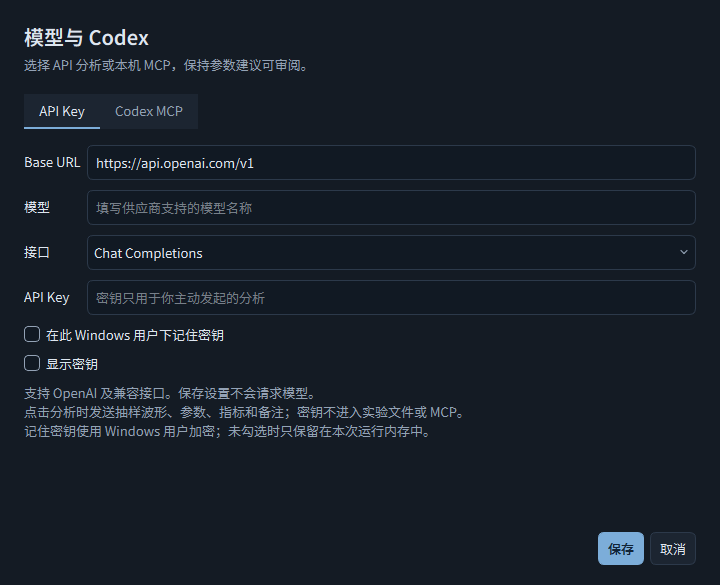
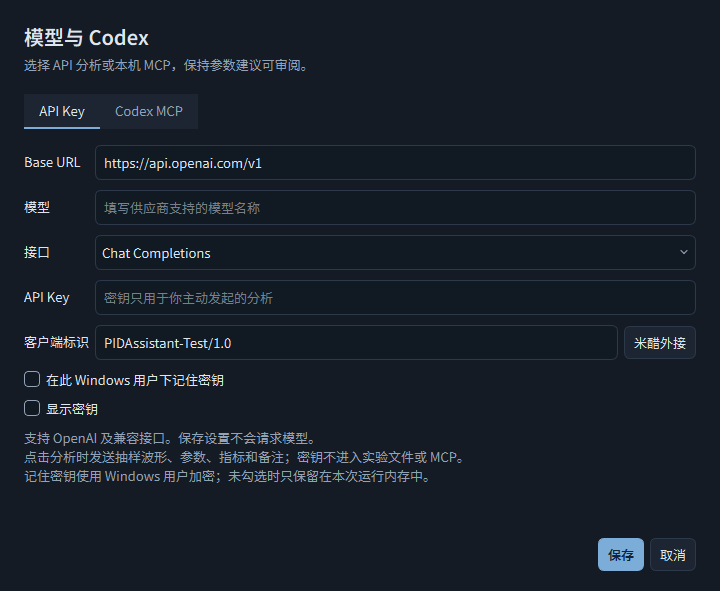
fix: v0.11.1 修复中转站客户端标识缺失导致的 API 403
实际改动：
- 模型设置新增可选 User-Agent 与米醋 Codex 外接预设，保存并加载客户端标识。
- 普通模型分析与 AI 自动调参后台请求共用已保存标识；旧配置兼容，留空使用助手自身标识。
- 网络请求前拒绝请求头换行、控制字符、非 ASCII 和超长输入；不自动重试，不显示服务商原始错误或密钥。
- 更新使用说明、版本记录与原生 API / MCP 设置截图；密钥仅保存在用户本机加密存储，不进入仓库或发布包。

验证结果：
- 同一本机米醋 Key、地址和模型：缺少标识时 HTTP 403；补齐供应商文档要求的标识后模型列表读取成功且包含所选模型，实际 Responses 回答返回 OK。
- 113 项功能测试、243 项打包 EXE 实际 Qt 检查、5 项官方 MCP 客户端互通通过；GUI / MCP 源码指纹、发行 ZIP 资源与 CRC 核对。

未验证项：
- 未验证真实小车控制效果、具体固件或 IDE 编译烧录；未用远程 AI 连续自动调参证明物理收敛或预算与供应商账单一致。

diff --git a/workspace_ui.py b/workspace_ui.py
@@ -13,7 +13,7 @@ import pyqtgraph as pg
 
 from core import CHANNELS, SCENARIOS, VERSION
 from ui_fonts import UI_FAMILY, NUMBER_FAMILY, configure_typography, number_font
-from integration import (SecretStore, analysis_identity, proposal_current, api_context, api_endpoint, atomic_json, codex_config_text,
+from integration import (SecretStore, analysis_identity, proposal_current, api_context, api_endpoint, atomic_json, codex_config_text, client_user_agent, MICU_CODEX_USER_AGENT,
                          data_directory, install_codex_config, request_analysis)
 from ui_components import DockHeader, ElidedLabel, section_header
 
@@ -129,7 +129,7 @@ class ApiWorker(QtCore.QThread):
     def run(self):
         try:
             text, usage = request_analysis(self.settings["base_url"], self.key, self.settings["model"],
-                                           self.context, self.question, self.settings["api_mode"])
+                                           self.context, self.question, self.settings["api_mode"], user_agent=self.settings.get("user_agent", ""))
             self.result.emit(text, usage)
         except Exception as error:
             self.failed.emit(str(error) if isinstance(error, ValueError) else "请求失败；请检查模型配置")
@@ -160,6 +160,14 @@ class ModelSettingsDialog(QtWidgets.QDialog):
         self.api_mode = QtWidgets.QComboBox()
         self.api_mode.addItems(["Chat Completions", "Responses"])
         self.api_mode.setCurrentText(settings.get("api_mode", "Chat Completions"))
+        self.user_agent = QtWidgets.QLineEdit(settings.get("user_agent", ""))
+        self.user_agent.setPlaceholderText("可留空；中转站有要求时填写 User-Agent")
+        self.user_agent.setMaxLength(512)
+        client_row = QtWidgets.QWidget()
+        client_layout = QtWidgets.QHBoxLayout(client_row)
+        client_layout.setContentsMargins(0, 0, 0, 0)
+        client_layout.addWidget(self.user_agent, 1)
+        client_layout.addWidget(push("米醋外接", lambda: self.user_agent.setText(MICU_CODEX_USER_AGENT)))
         self.key = QtWidgets.QLineEdit(window.api_key)
         self.key.setEchoMode(QtWidgets.QLineEdit.EchoMode.Password)
         self.key.setPlaceholderText("密钥只用于你主动发起的分析")
@@ -167,6 +175,7 @@ class ModelSettingsDialog(QtWidgets.QDialog):
         self.remember.setChecked(settings.get("remember_key", False))
         for name, item in [("Base URL", self.base_url), ("模型", self.model), ("接口", self.api_mode), ("API Key", self.key)]:
             form.addRow(name, item)
+        form.addRow("客户端标识", client_row)
         form.addRow(self.remember)
         self.show_key = QtWidgets.QCheckBox("显示密钥")
         self.show_key.toggled.connect(lambda enabled: self.key.setEchoMode(QtWidgets.QLineEdit.EchoMode.Normal if enabled else QtWidgets.QLineEdit.EchoMode.Password))
@@ -226,6 +235,7 @@ class ModelSettingsDialog(QtWidgets.QDialog):
     def save(self):
         try:
             api_endpoint(self.base_url.text(), self.api_mode.currentText())
+            client_user_agent(self.user_agent.text())
             remember = self.remember.isChecked()
             key = self.key.text().strip()
             store = SecretStore(self.window.data_dir)
@@ -234,7 +244,7 @@ class ModelSettingsDialog(QtWidgets.QDialog):
             elif not remember or not key:
                 store.forget()
             settings = {"base_url": self.base_url.text().strip(), "model": self.model.text().strip(),
-                        "api_mode": self.api_mode.currentText(), "remember_key": remember,
+                        "api_mode": self.api_mode.currentText(), "remember_key": remember, "user_agent": self.user_agent.text().strip(),
                         "mcp_enabled": self.sharing.isChecked()}
             atomic_json(self.window.data_dir / "model-settings.json", settings)
             self.window.model_settings = settings

diff --git a/test_integration.py b/test_integration.py
@@ -7,12 +7,13 @@ import threading
 import time
 import unittest
 import uuid
+from unittest.mock import patch
 from http.server import BaseHTTPRequestHandler, HTTPServer
 from pathlib import Path
 
 from core import Experiment, Parameters, Simulator
 from integration import (LocalBridge, SecretStore, api_context, api_endpoint, install_codex_config,
-                         live_snapshot, request_analysis, write_proposal)
+                         live_snapshot, request_analysis, write_proposal, client_user_agent, MICU_CODEX_USER_AGENT)
 from mcp_server import call_tool, serve
 
 
@@ -133,7 +134,7 @@ class IntegrationTests(unittest.TestCase):
                 pass
             def do_POST(self):
                 body = json.loads(self.rfile.read(int(self.headers["Content-Length"])))
-                recorded.append((self.path, self.headers.get("Authorization"), body))
+                recorded.append((self.path, self.headers.get("Authorization"), body, self.headers.get("User-Agent")))
                 if body["model"] == "denied":
                     self.send_response(401)
                     self.end_headers()
@@ -154,8 +155,10 @@ class IntegrationTests(unittest.TestCase):
             self.assertEqual(usage["total_tokens"], 42)
             self.assertEqual(recorded[-1][1], "Bearer dummy-api-secret")
             self.assertNotIn("dummy-api-secret", json.dumps(recorded[-1][2]))
-            text, _ = request_analysis(url, "dummy-api-secret", "test", {}, "检查", "Responses")
+            self.assertTrue(recorded[-1][3].startswith("PIDAssistant/"))
+            text, _ = request_analysis(url, "dummy-api-secret", "test", {}, "检查", "Responses", user_agent=MICU_CODEX_USER_AGENT)
             self.assertEqual(text, "响应接口分析")
+            self.assertEqual(recorded[-1][3], MICU_CODEX_USER_AGENT)
             with self.assertRaises(ValueError) as error:
                 request_analysis(url, "dummy-api-secret", "denied", {}, "检查")
             self.assertNotIn("dummy-api-secret", str(error.exception))
@@ -163,6 +166,14 @@ class IntegrationTests(unittest.TestCase):
             server.shutdown()
             server.server_close()
             thread.join(timeout=2)
+
+    def test_invalid_client_identifier_is_rejected_before_network(self):
+        for value in [None, {}, "bad\r\nAuthorization: other", "bad\nvalue", "bad\x00", "中文", "x" * 513]:
+            with self.subTest(value=value), patch("integration.build_opener") as opener:
+                with self.assertRaises(ValueError):
+                    request_analysis("https://example.invalid/v1", "dummy-key", "test", {}, "检查", user_agent=value)
+                opener.assert_not_called()
+        self.assertTrue(client_user_agent(" ").startswith("PIDAssistant/"))
 
 
 if __name__ == "__main__":

diff --git a/smoke.py b/smoke.py
@@ -172,23 +172,27 @@ def run_smoke(app, window, folder):
         dialog.key.setText("dummy-secret-ui-validation")
         dialog.base_url.setText("https://example.invalid/v1")
         dialog.model.setText("test-model")
+        dialog.user_agent.setText("PIDAssistant-Test/1.0")
         dialog.remember.setChecked(False)
         dialog.save()
         settings = json.loads((window.data_dir / "model-settings.json").read_text(encoding="utf-8"))
         check("model_settings_exclude_api_key", "dummy-secret-ui-validation" not in json.dumps(settings) and window.api_key == "dummy-secret-ui-validation")
         check("key_hidden_in_settings", dialog.key.echoMode() == QtWidgets.QLineEdit.EchoMode.Password)
+        check("client_identifier_saved_and_restored", settings["user_agent"] == "PIDAssistant-Test/1.0" and ModelSettingsDialog(window).user_agent.text() == "PIDAssistant-Test/1.0")
         window.api_key = ""
         window.publish_bridge()
         check("mcp_snapshot_excludes_api_credentials", "dummy-secret-ui-validation" not in (window.data_dir / "snapshot.json").read_text(encoding="utf-8"))
         import threading
         from http.server import BaseHTTPRequestHandler, HTTPServer
         api_requests = []
+        api_headers = []
         class ApiHandler(BaseHTTPRequestHandler):
             def log_message(self, *args):
                 pass
             def do_POST(self):
                 body = json.loads(self.rfile.read(int(self.headers["Content-Length"])))
                 api_requests.append(body)
+                api_headers.append(self.headers.get("User-Agent"))
                 self.send_response(200)
                 self.send_header("Content-Type", "application/json")
                 self.end_headers()
@@ -212,6 +216,7 @@ def run_smoke(app, window, folder):
             check("api_button_executes_real_http_and_displays_result", len(api_requests) == 1 and "验证建议" in window.ai_result.toPlainText())
             check("api_analysis_keeps_parameters_and_device_unchanged", window.params.kp == old_params and window.worker is None)
             check("api_worker_restores_button_and_shows_usage", window.ai_button.isEnabled() and "36" in window.ai_status.text())
+            check("api_worker_sends_configured_client_identifier", api_headers == ["PIDAssistant-Test/1.0"])
             window.grab().save(str(folder / "model-analysis.png"))
         finally:
             server.shutdown()

diff --git a/smoke_autotune.py b/smoke_autotune.py
@@ -92,11 +92,12 @@ def run_autotune(app,w,folder,check):
     begin();w.experiment.samples[-1]['actual']=float('nan');ctrl.tick()
     check('auto_nonfinite_feedback_stops_run',not ctrl.active and '异常' in ctrl.reason)
 
-    state={'reply':'apply','gate':None,'requests':[]}
+    state={'reply':'apply','gate':None,'requests':[],'client_identifiers':[]}
     class Handler(BaseHTTPRequestHandler):
         def do_POST(self):
             body=json.loads(self.rfile.read(int(self.headers['Content-Length'])))
             context=json.loads(body['messages'][1]['content'].split('\n\n用户问题：')[0]);state['requests'].append((body,context))
+            state['client_identifiers'].append(self.headers.get('User-Agent'))
             gate=state['gate']
             if gate:gate.wait(5)
             p={k:context['experiment'][k] for k in ('kp','ki','kd')};p['ki']+=.05
@@ -110,9 +111,10 @@ def run_autotune(app,w,folder,check):
     server=ThreadingHTTPServer(('127.0.0.1',0),Handler);thread=threading.Thread(target=server.serve_forever,daemon=True);thread.start()
     settings=copy.deepcopy(w.model_settings);key=w.api_key
     try:
-        w.api_key='dummy-auto-smoke-key';w.model_settings={'base_url':f'http://127.0.0.1:{server.server_port}/v1','model':'local-auto-test','api_mode':'Chat Completions'}
+        w.api_key='dummy-auto-smoke-key';w.model_settings={'base_url':f'http://127.0.0.1:{server.server_port}/v1','model':'local-auto-test','api_mode':'Chat Completions','user_agent':'PIDAssistant-Auto-Test/1.0'}
         begin(provider='api');before=w.params.ki;feed(.5)
         check('auto_real_background_http_round_applies_valid_json',w.params.ki==before+.05 and ctrl.calls==1 and ctrl.tokens==100)
+        check('auto_round_sends_configured_client_identifier',state['client_identifiers'][-1]=='PIDAssistant-Auto-Test/1.0')
         body,context=state['requests'][-1]
         check('auto_api_sends_csv_metadata_goals_and_structured_prompt', 'csv_text' in context and 'bounds' in context and 'JSON' in body['messages'][0]['content'] and context['csv_sampling']['full_points']==221)
         check('auto_api_exports_do_not_contain_key',all('dummy-auto-smoke-key' not in path.read_text(encoding='utf-8-sig') for path in ctrl.folder.iterdir() if path.suffix in ('.json','.csv')))

diff --git a/integration.py b/integration.py
@@ -201,9 +201,19 @@ class NoRedirect(HTTPRedirectHandler):
         return None
 
 
-def request_analysis(base_url, api_key, model, context, question, api_mode="Chat Completions", *, system_prompt=SYSTEM_PROMPT):
+MICU_CODEX_USER_AGENT = "codex_cli_rs/0.77.0 (Windows 10.0.26100; x86_64) WindowsTerminal PIDAssistant"
+
+
+def client_user_agent(value=""):
+    if not isinstance(value, str) or len(value) > 512 or any(ord(c) < 32 or ord(c) > 126 for c in value):
+        raise ValueError("客户端标识应为不超过 512 个字符的单行 ASCII 文本")
+    return value.strip() or "PIDAssistant/" + VERSION
+
+
+def request_analysis(base_url, api_key, model, context, question, api_mode="Chat Completions", *, system_prompt=SYSTEM_PROMPT, user_agent=""):
     if not api_key.strip() or not model.strip():
         raise ValueError("请在模型设置中填写 API Key 和模型名称")
+    user_agent = client_user_agent(user_agent)
     user = json.dumps(context, ensure_ascii=False, allow_nan=False) + "\n\n用户问题：" + question[:4000]
     if api_mode == "Responses":
         body = {"model": model.strip(), "instructions": system_prompt, "input": user,
@@ -214,7 +224,7 @@ def request_analysis(base_url, api_key, model, context, question, api_mode="Chat
                                                       {"role": "user", "content": user}],
                 token_key: 1800, "stream": False}
     request = Request(api_endpoint(base_url, api_mode), json.dumps(body, ensure_ascii=False).encode("utf-8"),
-                      {"Authorization": "Bearer " + api_key.strip(), "Content-Type": "application/json"})
+                      {"Authorization": "Bearer " + api_key.strip(), "Content-Type": "application/json", "User-Agent": user_agent})
     try:
         handlers = [NoRedirect()]
         if urlsplit(request.full_url).hostname in {"127.0.0.1", "localhost", "::1"}:

diff --git a/autotune.py b/autotune.py
@@ -42,7 +42,7 @@ class RoundWorker(QtCore.QThread):
                 estimate=len(json.dumps(context,ensure_ascii=False).encode('utf-8'))+len(AUTO_PROMPT.encode('utf-8'))+1800
                 if estimate > self.metadata['remaining_tokens']:raise ValueError('剩余 token 预算不足以覆盖本轮请求；CSV 已保存')
                 self.called=True
-                text,usage=request_analysis(self.settings['base_url'],self.key,self.settings['model'],context,'给出下一轮 JSON 决策。',self.settings['api_mode'],system_prompt=AUTO_PROMPT)
+                text,usage=request_analysis(self.settings['base_url'],self.key,self.settings['model'],context,'给出下一轮 JSON 决策。',self.settings['api_mode'],system_prompt=AUTO_PROMPT,user_agent=self.settings.get('user_agent',''))
                 called=True
             atomic_json(self.folder/(stem+'-response.json'),{'text':text,'usage':usage,'provider':self.provider,'model_called':called})
             decision=parse_decision(text,self.config,{k:self.metadata[k] for k in KEYS})

diff --git a/core.py b/core.py
@@ -10,7 +10,7 @@ from dataclasses import asdict, dataclass
 from pathlib import Path
 from statistics import mean
 
-VERSION = "0.11.0"
+VERSION = "0.11.1"
 CHANNELS = ["target", "actual", "error", "output", "p_term", "i_term", "d_term"]
 LABELS = dict(zip(CHANNELS, ["目标值", "实际值", "误差", "控制输出", "P 分量", "I 分量", "D 分量"]))
 SCENARIOS = ["正常跟踪", "响应迟缓", "振荡与延迟", "执行端饱和"]

diff --git a/docs/USER_GUIDE.md b/docs/USER_GUIDE.md
@@ -200,6 +200,16 @@ py -3.12 -m venv .venv
 
 “导出对比”保存 UTF-8 CSV，包含来源、区间、观察依据与可比性提示；对比操作不修改实验原始记录。
 
+## 中转站连接与客户端标识（v0.11.1）
+
+在“模型 / MCP → API Key”填写服务商提供的 Base URL、准确模型名和接口类型。中转站密钥需要搭配该站地址。模型列表读取失败时，可以手动填写已确认支持的模型名；列表失败不能单独证明密钥无效。
+
+如果服务商要求额外的 User-Agent，在“客户端标识”填写文档给出的值。米醋的 Codex 外接可点击“米醋外接”填入预设，使用 `https://www.micuapi.ai/v1` 与 `Responses`，并核对 Key 的分组和所选模型权限，见[供应商外接说明](https://docs.micuapi.ai/external-ua)。预设只填写客户端标识，仍需保存设置。
+
+留空时使用助手自己的客户端标识。普通模型分析与 AI 自动调参都会带上已保存的标识；保存不会请求模型或修改 PID。远程错误不自动重试，错误提示不显示服务商原始响应或密钥。
+
+从外部工具导入设置后，请正常关闭再打开助手加载配置。本次连接验证仅确认米醋文本响应成功，真实小车的自动调参仍需设备、固件回读与实测验证。
+
 ## 查看模型的分析范围（v0.10.0）
 
 在“分析 → 模型分析”点击“查看发送内容”，核对来源、参数、备注、规则依据和样本范围。预览不发请求，不包含密钥。波形只取最后目标和参数不变的区间，再抽样为最多 257 点；指标使用该区间的全部样本。

diff --git a/README.md b/README.md
@@ -4,13 +4,15 @@
 
 一款 Windows 原生桌面工具，把实时波形、PID 参数、数据看板和实验分析放进同一个工作台。双击 EXE 即可体验，无需安装 Python；默认使用模拟设备，不需要 API Key。
 
-[下载 Windows 版 v0.11.0](https://github.com/Looiseves/PID_LAB/releases/tag/v0.11.0) · [使用说明](docs/USER_GUIDE.md) · [界面图集](docs/UI_GALLERY.md) · [版本记录](CHANGELOG.md)
+[下载 Windows 版 v0.11.1](https://github.com/Looiseves/PID_LAB/releases/tag/v0.11.1) · [使用说明](docs/USER_GUIDE.md) · [界面图集](docs/UI_GALLERY.md) · [版本记录](CHANGELOG.md)
 
 ![实时波形工作台](docs/images/waveform.png)
 
 *大波形区与独立信号列表。截图为本地模拟数据。*
 
 v0.11.0 新增 AI 自动调参：按完整观察窗口采集与导出 CSV，在授权范围内分轮分析、应用并回读验证，以连续达标或明确停止规则结束。保留人工建议模式、源码编辑、通信诊断与 Codex 接入。
+
+v0.11.1 修复要求客户端标识的中转站接入：模型设置可填写 User-Agent，并提供米醋外接预设，普通分析与自动调参使用同一配置。已用用户本机密钥验证米醋 Responses 文本响应；没有用此证明真实小车自动调参效果。
 
 ## 主要功能
 

diff --git a/CHANGELOG.md b/CHANGELOG.md
@@ -1,5 +1,12 @@
 # 版本记录
 
+## v0.11.1 — 2026-10-08
+
+- 修复部分中转站因缺少所需客户端标识而拒绝助手 API 请求的问题；模型设置新增可选 User-Agent 和米醋 Codex 外接预设。
+- 普通模型分析与分轮自动调参共用客户端标识配置；留空时使用助手自身标识，拒绝换行、控制字符、非 ASCII 与过长请求头。旧设置继续可读取。
+- 使用用户本机配置验证：原请求返回 HTTP 403，补齐供应商文档要求的标识后，同一地址、模型和密钥得到 Responses 文本响应。密钥未进入源码、实验或发布包。
+- 验证真实本机 HTTP 请求头传递、设置保存 / 载入、后台普通分析与自动分轮请求；未验证真实小车控制效果或远程 AI 自动收敛。
+
 ## v0.11.0 — 2026-10-08
 
 - 新增原生 AI 自动调参工作区：可配误差 RMS、末段偏差 / 波动、参考限幅比例与输出变化；明确阶跃实验才计算超调与稳定时间，连续多轮达标才收敛。

diff --git a/VALIDATION.md b/VALIDATION.md
@@ -1,3 +1,10 @@
+# v0.11.1 验证范围
+
+- 同一用户本机 Key、模型 `gpt-6.1-sol` 与米醋 `/v1/responses` 地址：原始请求 HTTP 403，补齐供应商外接文档规定的 User-Agent 后获得 JSON 文本响应。真实连接验证不含波形或设备指令；账单和物理小车效果不在此验证范围内。
+- 113 项功能测试：保留既有测试，新增客户端标识非法输入在网络前拒绝；真实本机 HTTP 检查默认 / 自定义请求头、两种 API 协议与错误内容不泄露。
+- 243 项原生 Qt 检查：保留原有 240 项，增加客户端标识设置保存 / 载入、普通模型后台请求以及自动调参分轮请求的实际 Header 传递。
+- 最终发行复核打包 GUI / MCP 源码指纹、隔离测试目录的 5 项官方 MCP 客户端互通、ZIP CRC / 资源 / 文档与 GitHub 上传摘要。没有向真实小车发送参数或宣称远程 AI 已完成自动调参。
+
 # v0.11.0 验证范围
 
 ## 分轮自动调参

diff --git a/docs/UI_GALLERY.md b/docs/UI_GALLERY.md
@@ -1,6 +1,6 @@
-# PID Lab v0.11.0 界面图集
+# PID Lab 界面图集
 
-以下截图来自打包后的 Windows 原生 EXE，使用本地模拟数据和独立源码示例。截图不代表真实小车验证，API 页面未填写密钥。
+以下截图来自打包后的 Windows 原生 EXE，使用本地模拟数据和独立源码示例。截图不代表真实小车验证，API 页面未填写密钥。API / MCP 设置更新至 v0.11.1，其余截图保留 v0.11.0。
 
 ## AI 自动调参
 
@@ -106,7 +106,7 @@
 
 ## API 与 Codex MCP
 
-保持 API Key 遮蔽，配置与操作入口清晰分组。
+保持 API Key 遮蔽，配置与操作入口清晰分组。v0.11.1 新增可选客户端标识与“米醋外接”预设，普通分析和自动调参使用同一配置。
 
 ![API 设置](images/ui-model-api.png)
 
